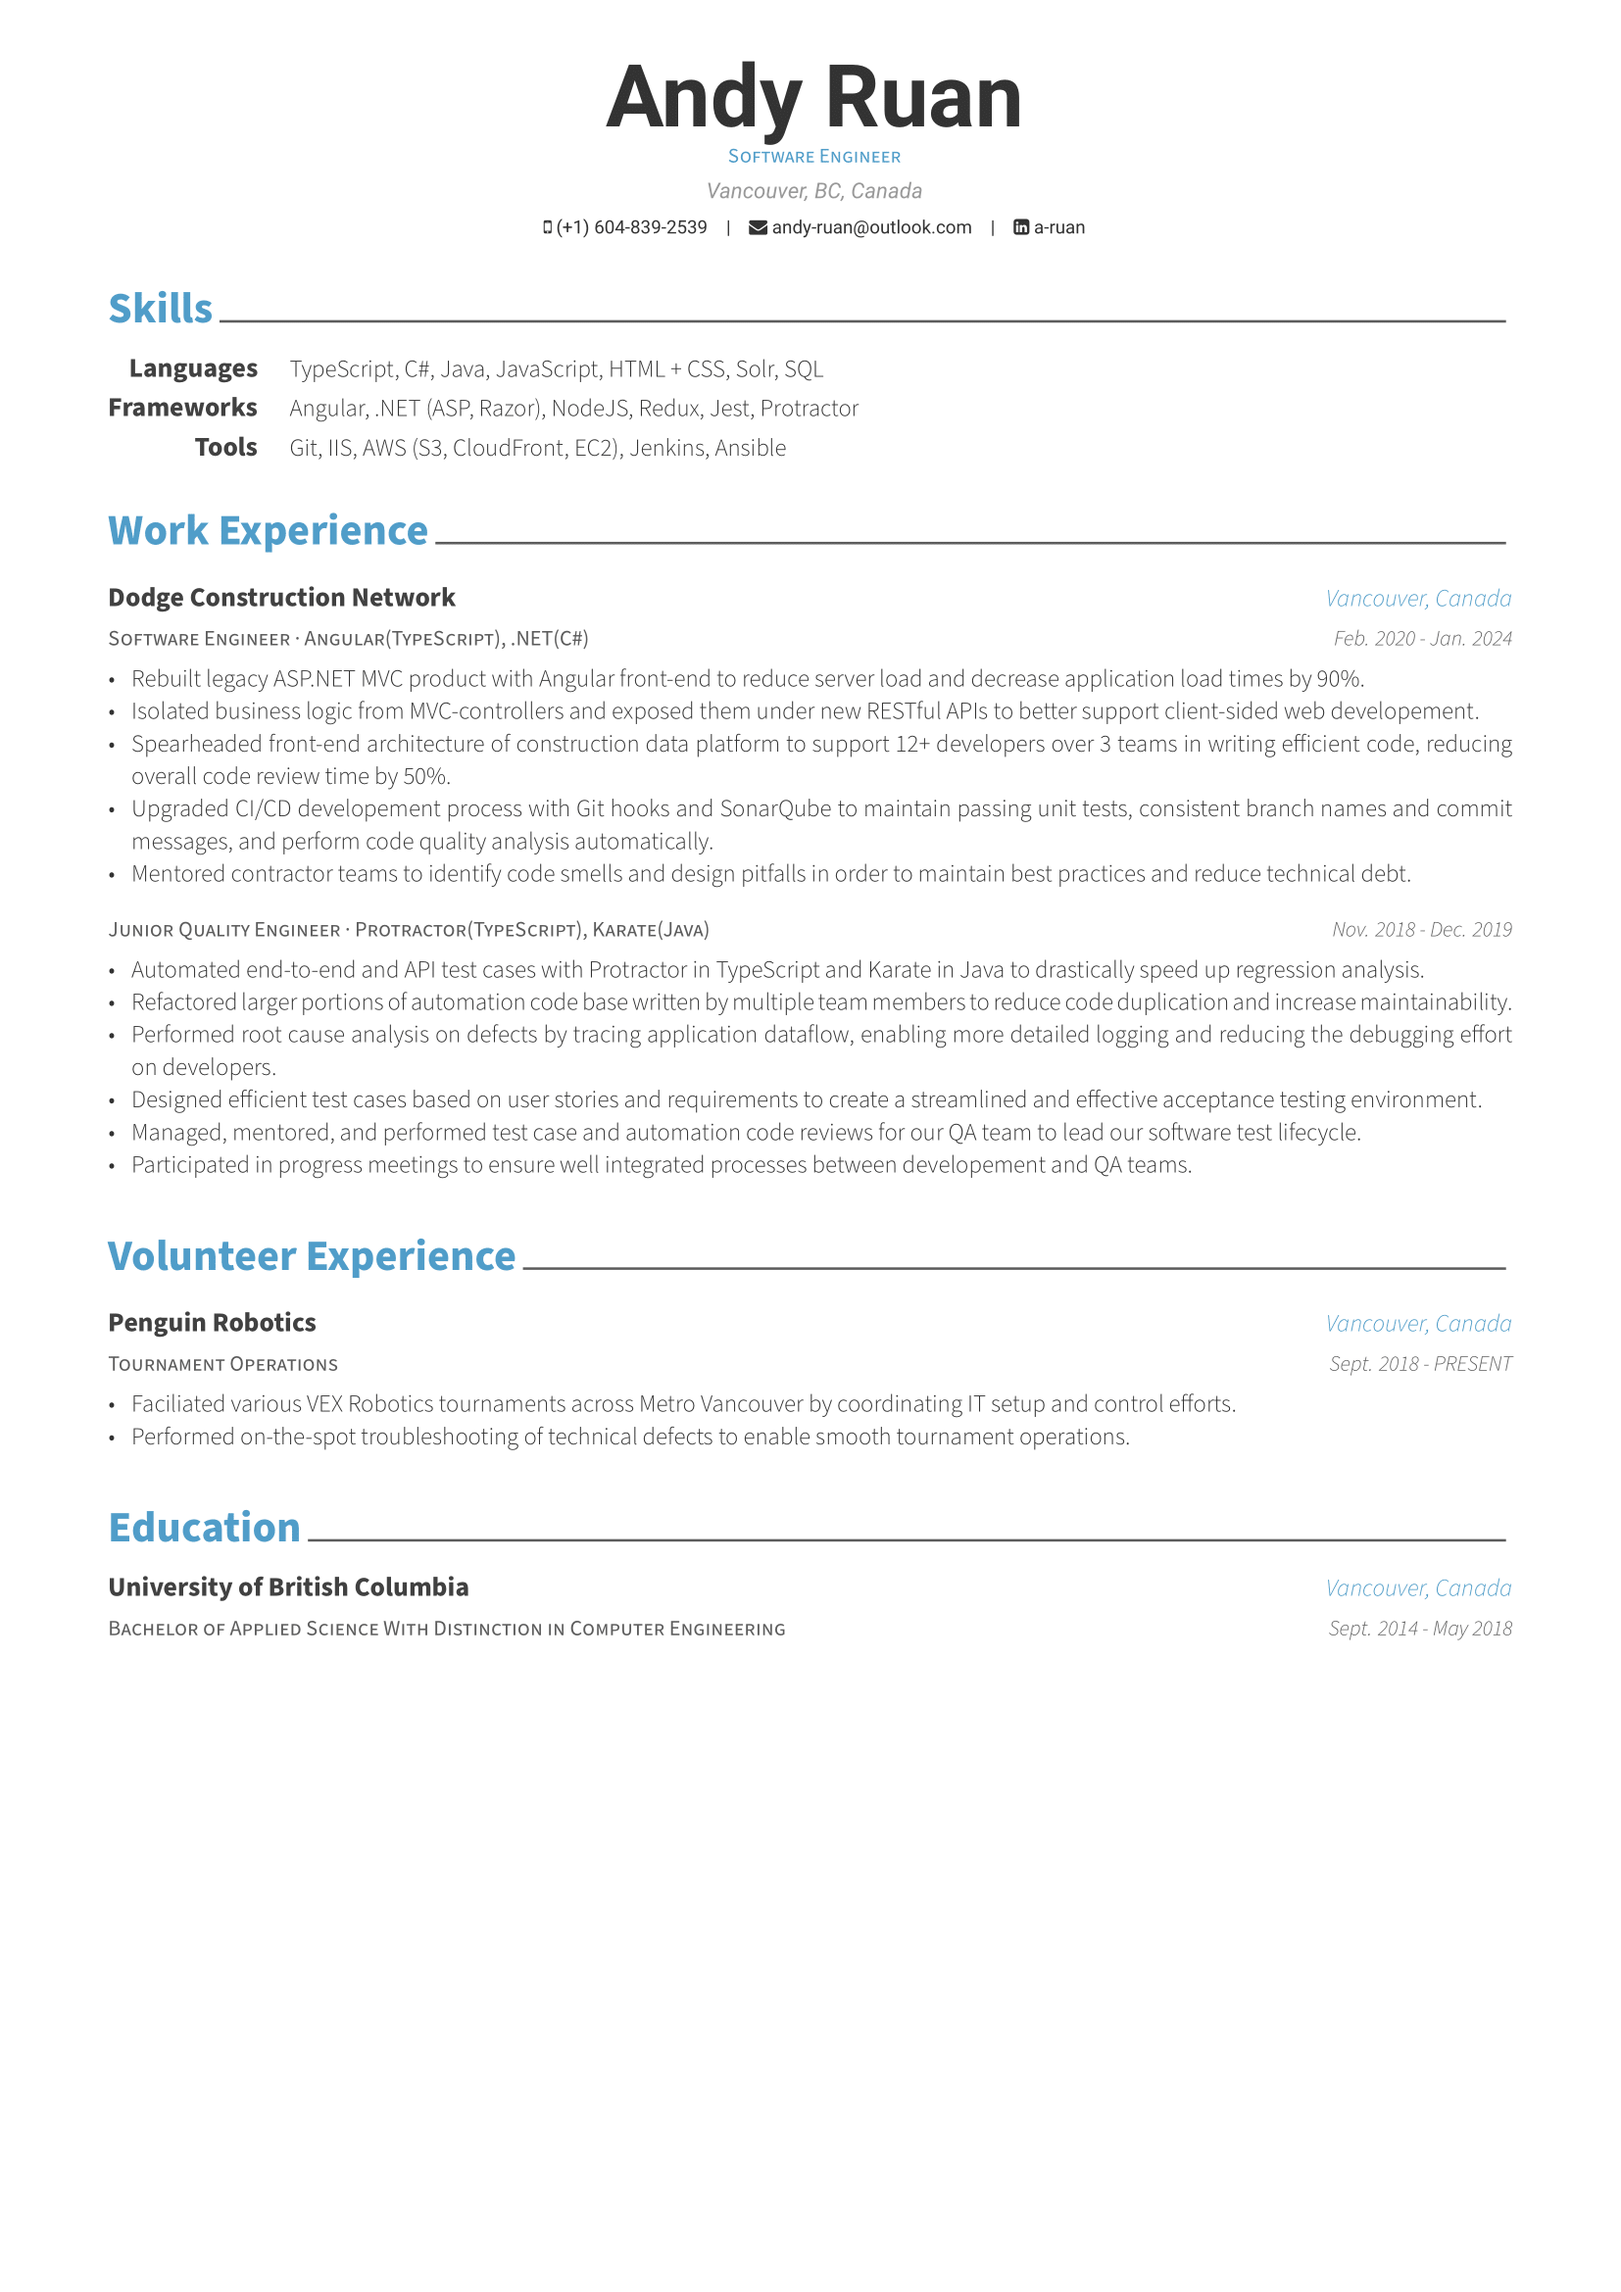
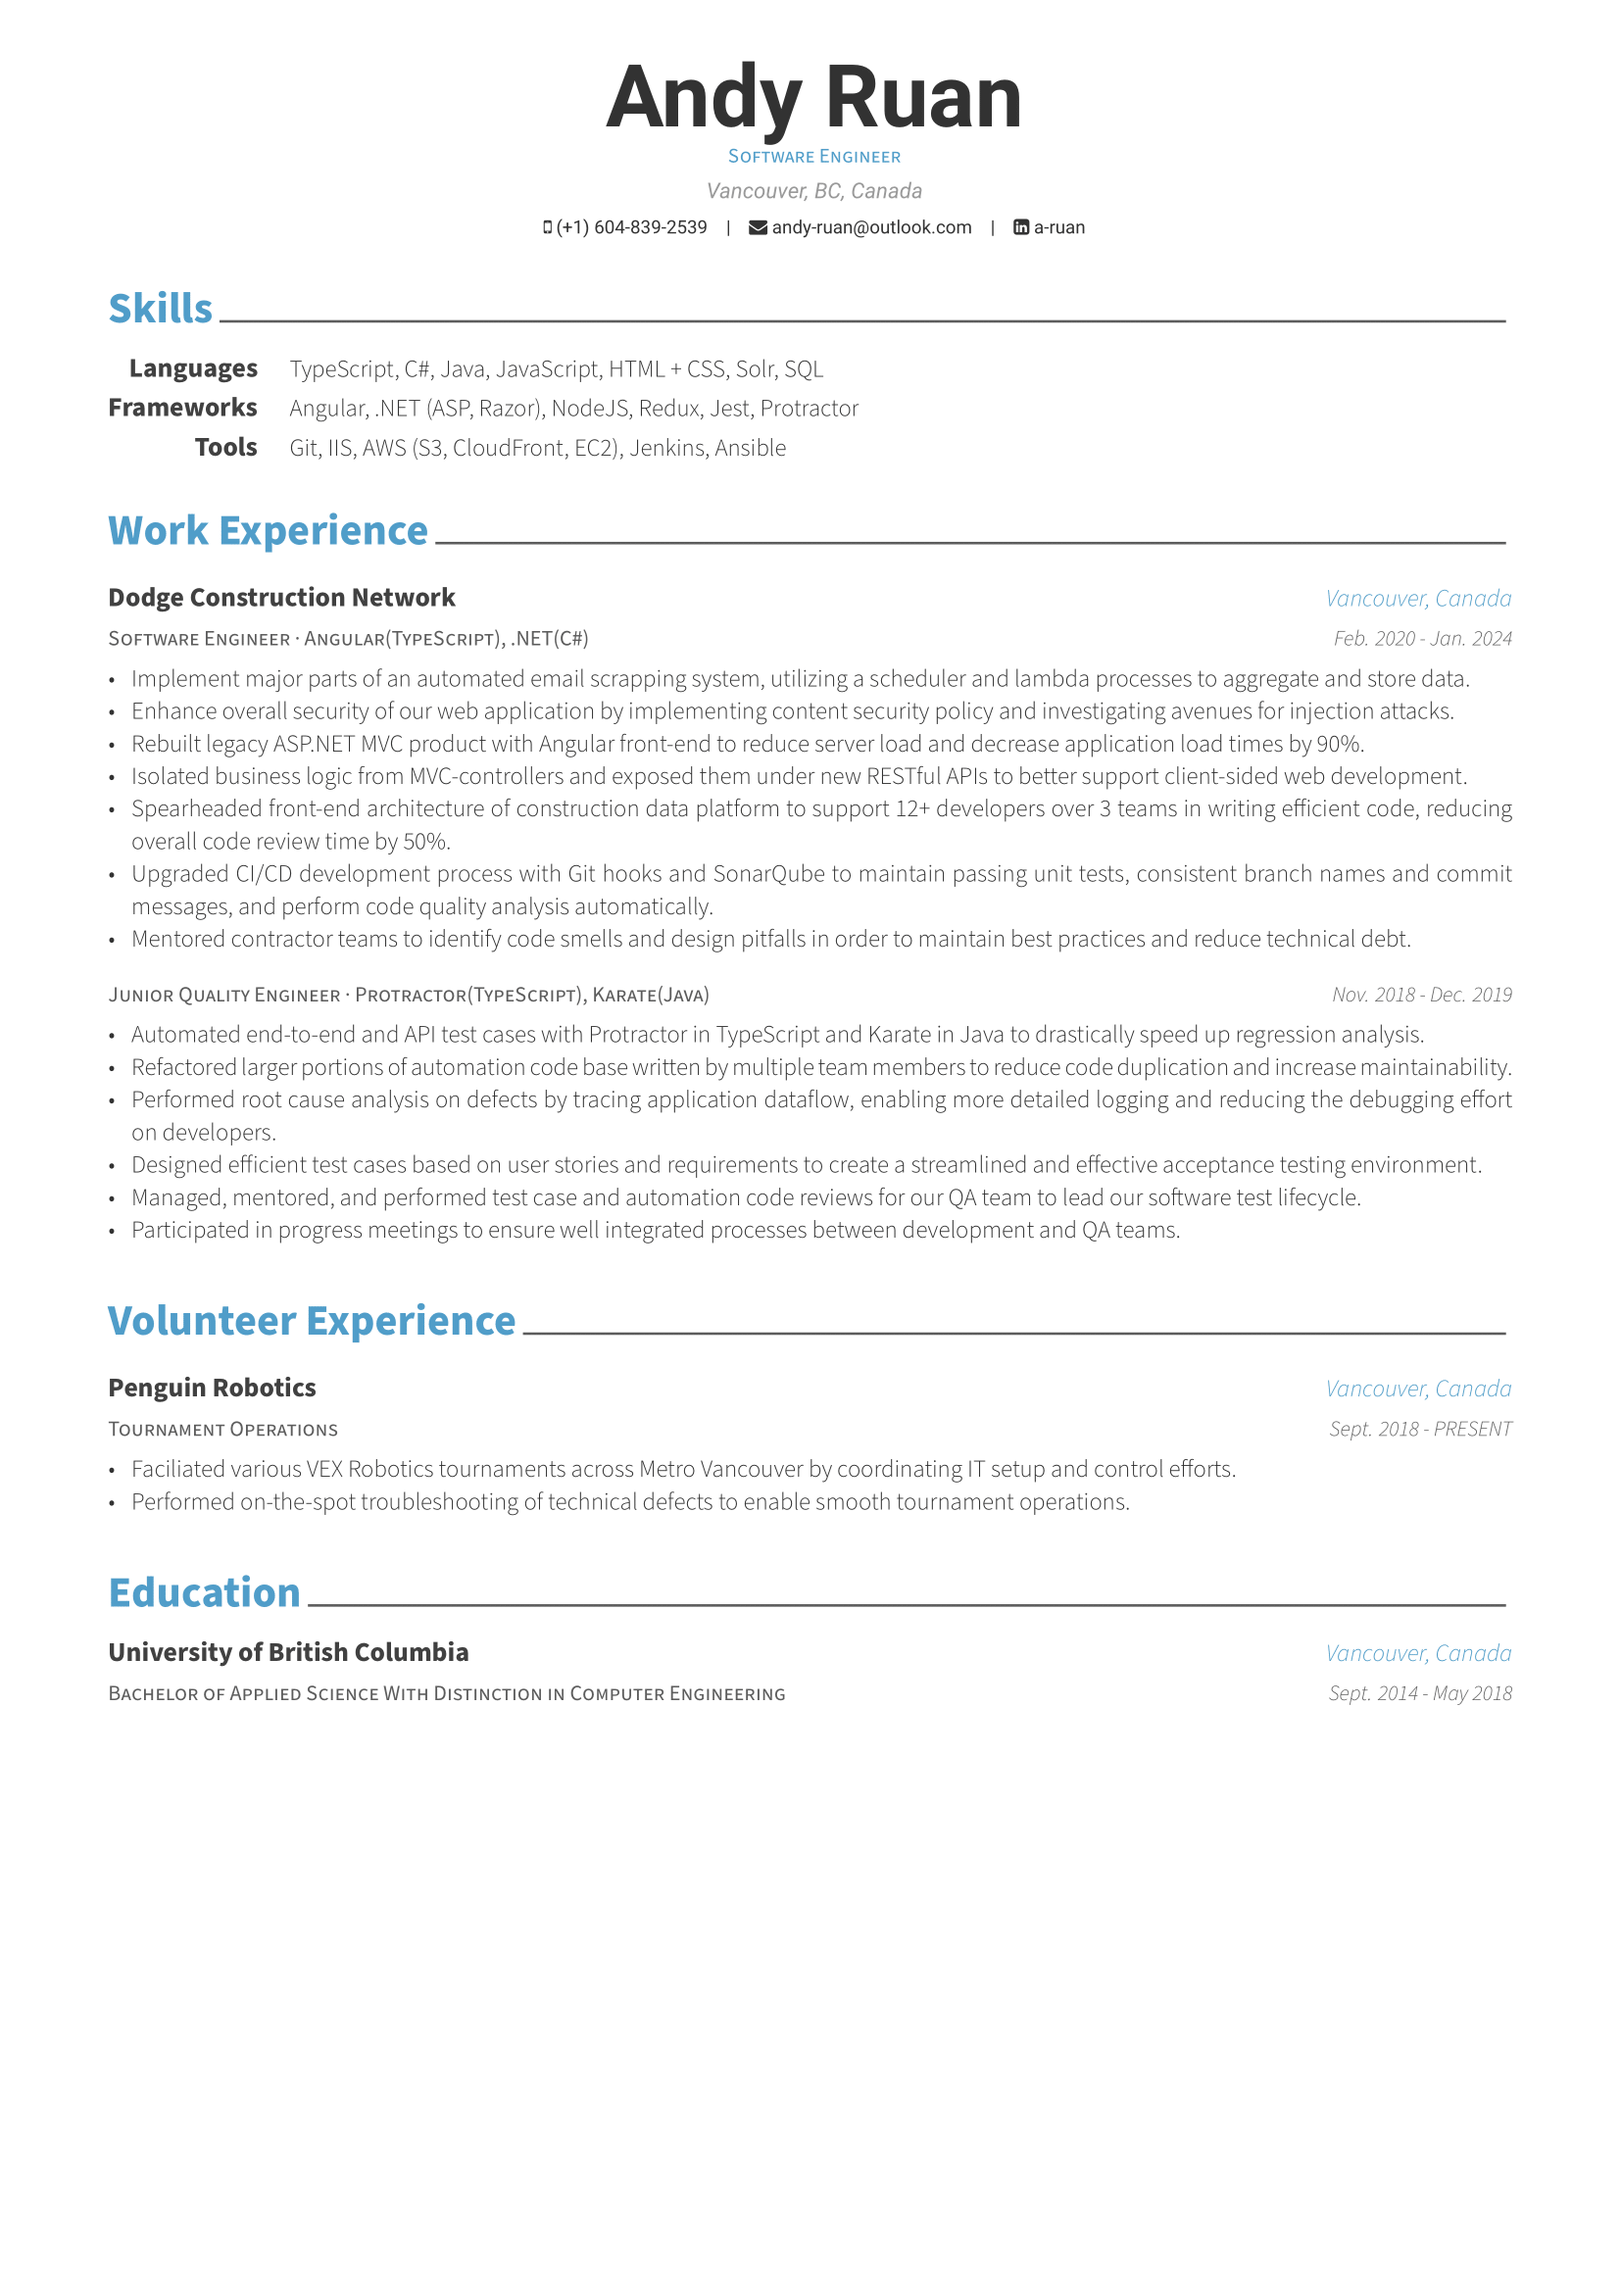
update dcn responsiblities

Changed region(s): [[0.0617, 0.2809, 0.925, 0.749], [0.8325, 0.5618, 0.925, 0.6242], [0.8325, 0.6866, 0.925, 0.749]]

diff --git a/resume/sections/experience.tex b/resume/sections/experience.tex
@@ -17,10 +17,12 @@
   {Feb. 2020 - Jan. 2024} % Date(s)
   {
     \begin{cvitems} % Description(s) of tasks/responsibilities
+      \item {Implement major parts of an automated email scrapping system, utilizing a scheduler and lambda processes to aggregate and store data. }
+      \item {Enhance overall security of our web application by implementing content security policy and investigating avenues for injection attacks. }
       \item {Rebuilt legacy ASP.NET MVC product with Angular front-end to reduce server load and decrease application load times by 90\%.}
-      \item {Isolated business logic from MVC-controllers and exposed them under new RESTful APIs to better support client-sided web developement.}
+      \item {Isolated business logic from MVC-controllers and exposed them under new RESTful APIs to better support client-sided web development.}
       \item {Spearheaded front-end architecture of construction data platform to support 12+ developers over 3 teams in writing efficient code, reducing overall code review time by 50\%.}
-      \item {Upgraded CI/CD developement process with Git hooks and SonarQube to maintain passing unit tests, consistent branch names and commit messages, and perform code quality analysis automatically.}
+      \item {Upgraded CI/CD development process with Git hooks and SonarQube to maintain passing unit tests, consistent branch names and commit messages, and perform code quality analysis automatically.}
       \item {Mentored contractor teams to identify code smells and design pitfalls in order to maintain best practices and reduce technical debt.}
     \end{cvitems}
   }
@@ -38,7 +40,7 @@
       \item {Performed root cause analysis on defects by tracing application dataflow, enabling more detailed logging and reducing the debugging effort on developers.}
       \item {Designed efficient test cases based on user stories and requirements to create a streamlined and effective acceptance testing environment.}
       \item {Managed, mentored, and performed test case and automation code reviews for our QA team to lead our software test lifecycle.}
-      \item {Participated in progress meetings to ensure well integrated processes between developement and QA teams.}
+      \item {Participated in progress meetings to ensure well integrated processes between development and QA teams.}
     \end{cvitems}
   }
 
